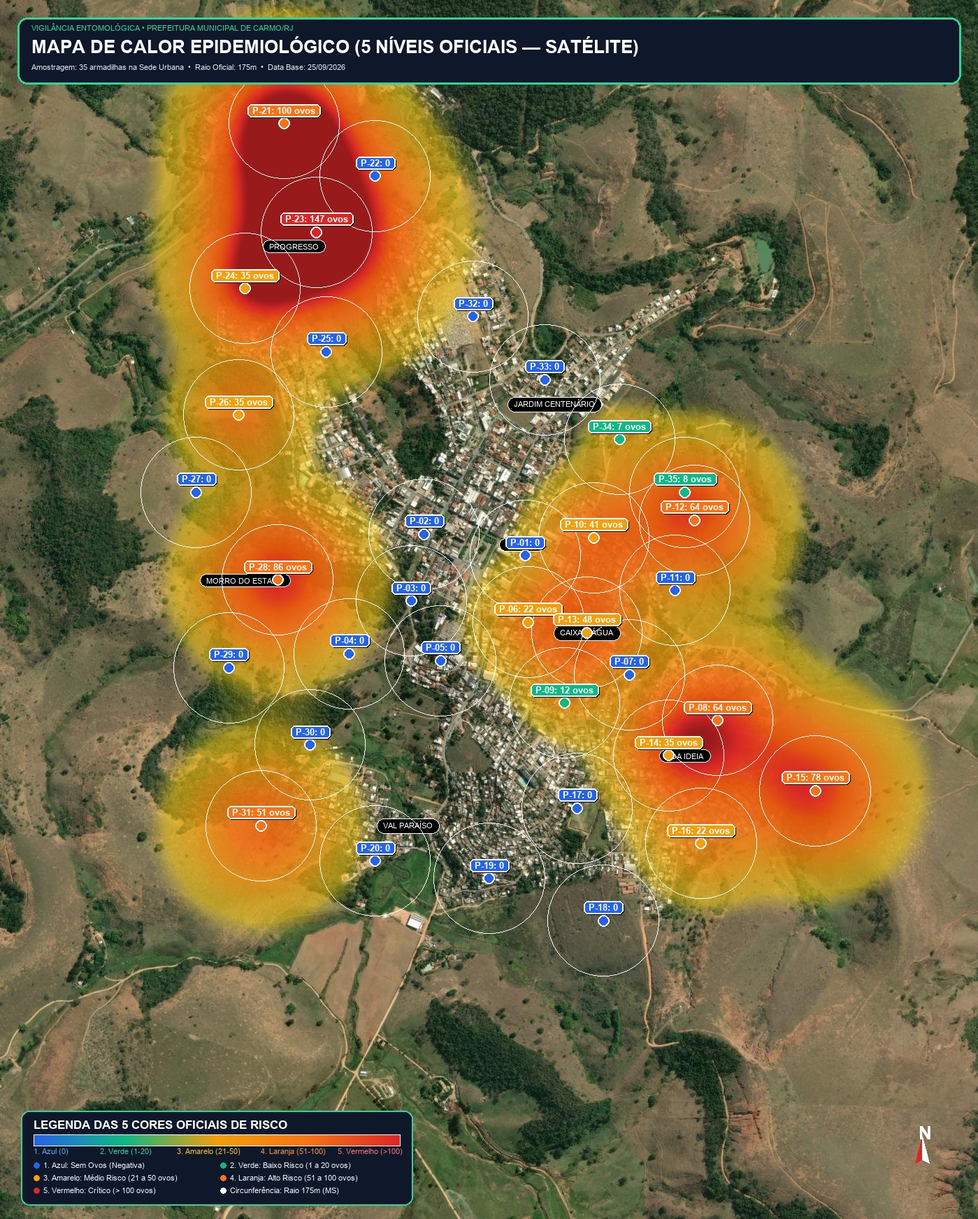
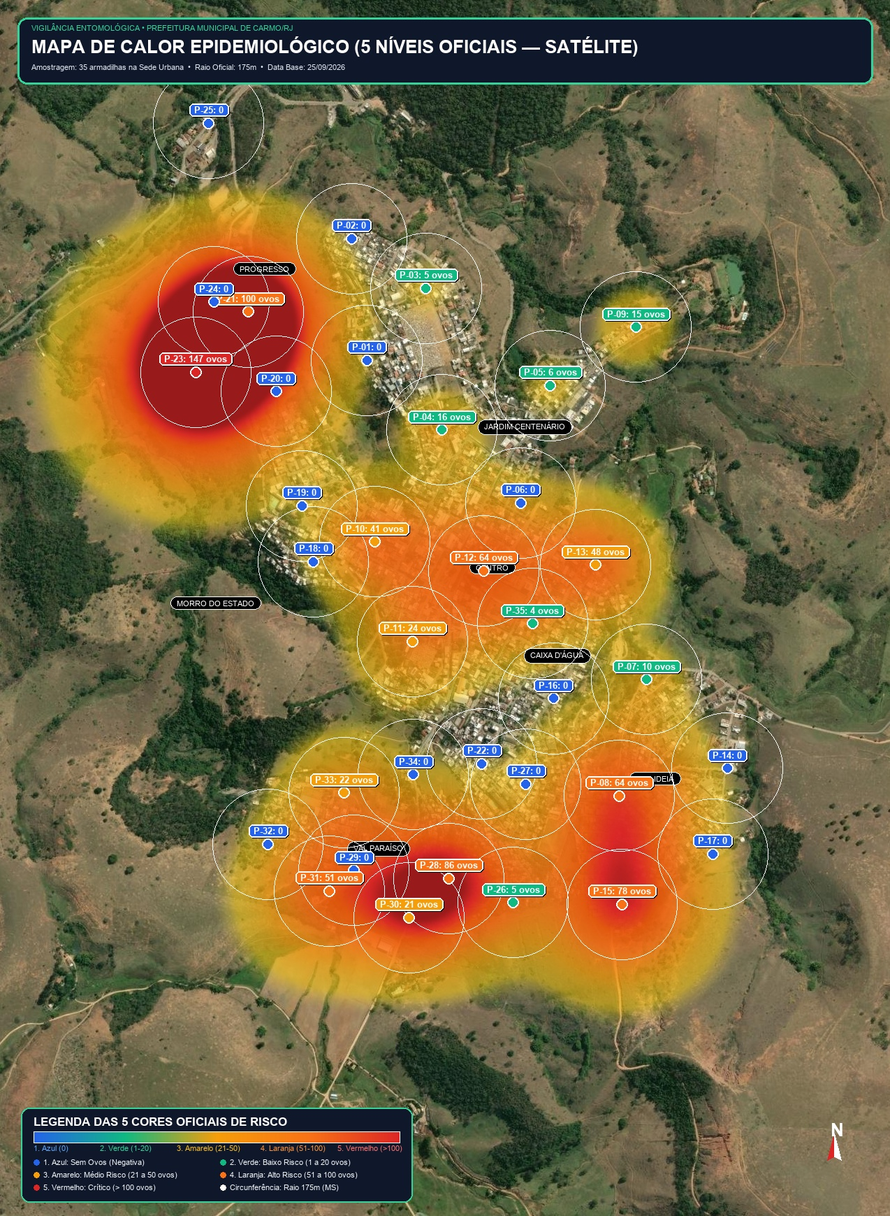
feat: botao relatorio consolidado no painel adm, mapas em nevoeiro satelite de alta definicao e tabela por bairro com area e microarea

diff --git a/src/lib/pdfRelatorioConsolidado.js b/src/lib/pdfRelatorioConsolidado.js
@@ -547,7 +547,7 @@ export async function gerarRelatorioPdfConsolidado(armadilhas = [], opcoes = {})
   });
 
   // =========================================================================
-  // PÁGINA 2: REGISTRO INDIVIDUALIZADO COMPLETO DAS 56 ARMADILHAS
+  // PÁGINA 2: REGISTRO INDIVIDUAL COMPLETO CLASSIFICADO POR BAIRRO
   // =========================================================================
   doc.addPage('a4', 'portrait');
   desenharCabecalhoOficial(doc, { dataFormatada, horaFormatada, filtroDescricao });
@@ -555,15 +555,61 @@ export async function gerarRelatorioPdfConsolidado(armadilhas = [], opcoes = {})
   doc.setFont('helvetica', 'bold');
   doc.setFontSize(10);
   doc.setTextColor(15, 23, 42);
-  doc.text('📋 5. Registro Individual Completo das 56 Ovitrampas (100% Analisadas)', 10, 36);
+  doc.text('📋 4. Registro Individual Completo das 56 Ovitrampas (Classificado por Bairro)', 10, 36);
 
   doc.setFont('helvetica', 'normal');
-  doc.setFontSize(7.2);
+  doc.setFontSize(6.8);
   doc.setTextColor(71, 85, 105);
-  doc.text('Estratificação oficial e dados operacionais de leitura segundo as 5 cores padronizadas pelo Ministério da Saúde / Fiocruz:', 10, 40);
+  doc.text('Estratificação ordenada por Bairro, exibindo Área Territorial e Microárea/Quarteirão segundo os 5 estratos do Ministério da Saúde / Fiocruz:', 10, 40);
 
-  // Ordena numericamente as armadilhas (P-01 a P-56)
-  const armadilhasOrdenadas = [...armadilhas].sort((a, b) => {
+  // Helper para identificar Área territorial e formatar Microárea com Quarteirão
+  function extrairAreaEMicroarea(arm) {
+    const b = `${arm.bairro || ''} ${arm.microarea || ''} ${arm.rua || ''}`.trim().toLowerCase();
+    let area = 'Sede Urbana';
+    let ordem = 1;
+    if (b.includes('influência') || b.includes('influencia')) {
+      area = '2º Distrito';
+      ordem = 2;
+    } else if (b.includes('prata')) {
+      area = '3º Distrito';
+      ordem = 3;
+    } else if (b.includes('porto velho')) {
+      area = '4º Distrito';
+      ordem = 4;
+    } else if (b.includes('pombo')) {
+      area = 'Ilha dos Pombos';
+      ordem = 5;
+    } else if (b.includes('barra')) {
+      area = 'Barra de S. F.';
+      ordem = 6;
+    }
+
+    const q = arm.quarteirao ? ` (${arm.quarteirao})` : '';
+    const microarea = (arm.microarea || arm.bairro || 'Centro') + q;
+    return { area, microarea, ordem };
+  }
+
+  // Ordena por Território/Área, depois por Bairro e por número
+  const armadilhasOrdenadas = [...armadilhas].map((arm) => {
+    const numLimpo = String(arm.numero || '').replace(/^OV[-_ ]*/i, '');
+    if (numLimpo === '24' || numLimpo === 'P-24') {
+      return {
+        ...arm,
+        ultimosOvos: 0,
+        moradorNome: 'Marienio oliveira',
+        bairro: 'Progresso',
+        microarea: 'Progresso',
+        quarteirao: 'Q-11'
+      };
+    }
+    return arm;
+  }).sort((a, b) => {
+    const infoA = extrairAreaEMicroarea(a);
+    const infoB = extrairAreaEMicroarea(b);
+    if (infoA.ordem !== infoB.ordem) return infoA.ordem - infoB.ordem;
+    const bairroA = String(a.bairro || '').toLowerCase();
+    const bairroB = String(b.bairro || '').toLowerCase();
+    if (bairroA !== bairroB) return bairroA.localeCompare(bairroB);
     const na = parseInt(String(a.numero || '').replace(/\D/g, ''), 10) || 0;
     const nb = parseInt(String(b.numero || '').replace(/\D/g, ''), 10) || 0;
     return na - nb;
@@ -574,10 +620,11 @@ export async function gerarRelatorioPdfConsolidado(armadilhas = [], opcoes = {})
     const infoRisco = classificarRiscoOficial(ovos);
     const numLimpo = String(arm.numero || '').replace(/^OV[-_ ]*/i, '');
     const ovLabel = `P-${numLimpo.padStart(2, '0')}`;
-    const palhetaLabel = arm.palheta || `P-${numLimpo.padStart(2, '0')}`;
+    const palhetaLabel = arm.palheta || `${numLimpo.padStart(2, '0')}A`;
     const endereco = `${arm.rua || 'S/N'}${arm.numeroImovel ? ' Nº ' + arm.numeroImovel : ''}`;
     const morador = arm.moradorNome || 'Não informado';
-    const bairro = arm.bairro || arm.microarea || 'Carmo';
+    const bairro = arm.bairro || 'Carmo';
+    const { area, microarea } = extrairAreaEMicroarea(arm);
     const hora = arm.horaInstalacao || (arm.atualizadoEm ? new Date(arm.atualizadoEm).toLocaleTimeString('pt-BR', { hour: '2-digit', minute: '2-digit' }) : '10:00');
 
     return [
@@ -585,9 +632,11 @@ export async function gerarRelatorioPdfConsolidado(armadilhas = [], opcoes = {})
       palhetaLabel,
       ovos.toString(),
       infoRisco.badgeClass,
-      morador.slice(0, 22),
-      endereco.slice(0, 26),
-      bairro.slice(0, 18),
+      bairro.slice(0, 16),
+      area.slice(0, 14),
+      microarea.slice(0, 20),
+      morador.slice(0, 20),
+      endereco.slice(0, 24),
       hora
     ];
   });
@@ -595,31 +644,33 @@ export async function gerarRelatorioPdfConsolidado(armadilhas = [], opcoes = {})
   autoTable(doc, {
     startY: 43,
     margin: { left: 10, right: 10 },
-    head: [['OV', 'Palheta', 'Ovos', 'Resultado / Nível Oficial', 'Morador / Ponto', 'Logradouro', 'Bairro / Território', 'Hora']],
+    head: [['OV', 'Palheta', 'Ovos', 'Resultado / Nível Oficial', 'Bairro', 'Área', 'Microárea', 'Morador / Ponto', 'Logradouro', 'Hora']],
     body: linhasRegistroIndividual,
     theme: 'grid',
     headStyles: {
       fillColor: [15, 23, 42],
       textColor: [255, 255, 255],
       fontStyle: 'bold',
-      fontSize: 6.8,
+      fontSize: 6.2,
       halign: 'center',
-      cellPadding: 1.5
+      cellPadding: 1.1
     },
     bodyStyles: {
-      fontSize: 6.0,
-      cellPadding: 1.1,
+      fontSize: 5.5,
+      cellPadding: 0.9,
       halign: 'left'
     },
     columnStyles: {
-      0: { fontStyle: 'bold', halign: 'center', width: 14 },
-      1: { halign: 'center', width: 14 },
-      2: { fontStyle: 'bold', halign: 'center', width: 12 },
-      3: { fontStyle: 'bold', width: 34 },
-      4: { width: 35 },
-      5: { width: 44 },
-      6: { width: 23 },
-      7: { halign: 'center', width: 14 }
+      0: { fontStyle: 'bold', halign: 'center', width: 9 },
+      1: { halign: 'center', width: 10 },
+      2: { fontStyle: 'bold', halign: 'center', width: 8 },
+      3: { fontStyle: 'bold', width: 24 },
+      4: { width: 19 },
+      5: { width: 17 },
+      6: { width: 22 },
+      7: { width: 29 },
+      8: { width: 40 },
+      9: { halign: 'center', width: 12 }
     },
     didParseCell: (data) => {
       if (data.section === 'body') {
@@ -765,11 +816,10 @@ export async function gerarRelatorioPdfConsolidado(armadilhas = [], opcoes = {})
   if (imgMapa4) {
     doc.addImage(imgMapa4, 'JPEG', 10, 44, 190, 148, undefined, 'FAST');
   } else {
-    const { canvas } = await gerarCanvasMapaCalor(armadilhas, {
+    const { canvas } = await gerarCanvasMapaNevoeiro(armadilhas, {
       width: 1600,
       height: 1250,
-      tituloTerritorio: 'MUNICÍPIO DE CARMO - RJ',
-      provider: 'satellite'
+      tituloTerritorio: 'MUNICÍPIO DE CARMO - RJ'
     });
     doc.addImage(canvas.toDataURL('image/jpeg', 0.92), 'JPEG', 10, 44, 190, 148, undefined, 'FAST');
   }

diff --git a/src/features/admin/PainelAdminScreen.jsx b/src/features/admin/PainelAdminScreen.jsx
@@ -269,17 +269,37 @@ export function PainelAdminScreen({
     document.body.removeChild(link);
   };
 
-  // Geração do Relatório Consolidado Oficial em PDF
-  const handleGerarPdf = async () => {
-    const filtroDescricao = [
-      filtroMicroarea !== 'todas' ? filtroMicroarea : null,
-      filtroStatus !== 'todos' ? filtroStatus : null,
-      filtroTexto.trim() || null
-    ]
-      .filter(Boolean)
-      .join(' • ') || 'Todos os Registros';
+  // Geração do Relatório Consolidado Oficial Completo em PDF (com Mapas de Satélite e Nevoeiro)
+  const handleGerarRelatorioConsolidado = async () => {
+    try {
+      setToastMensagem({ tipo: 'info', texto: 'Gerando Relatório Consolidado com Mapas de Satélite e Nevoeiro...' });
+      const filtroDescricao = 'Consolidação Municipal Oficial • 56 Ovitrampas • Base Satélite';
+      await gerarRelatorioPdfConsolidado(armadilhas, { filtroDescricao });
+      setToastMensagem({ tipo: 'sucesso', texto: 'Relatório Consolidado baixado com sucesso!' });
+    } catch (err) {
+      console.error('Erro ao gerar relatório consolidado:', err);
+      setToastMensagem({ tipo: 'erro', texto: 'Erro ao gerar relatório. Tente novamente.' });
+    }
+  };
 
-    await gerarRelatorioPdfConsolidado(armadilhasFiltradas, { filtroDescricao });
+  // Geração do Relatório PDF (respeitando filtros atuais de busca/bairro)
+  const handleGerarPdf = async () => {
+    try {
+      setToastMensagem({ tipo: 'info', texto: 'Gerando Relatório em PDF...' });
+      const filtroDescricao = [
+        filtroMicroarea !== 'todas' ? filtroMicroarea : null,
+        filtroStatus !== 'todos' ? filtroStatus : null,
+        filtroTexto.trim() || null
+      ]
+        .filter(Boolean)
+        .join(' • ') || 'Todos os Registros';
+
+      await gerarRelatorioPdfConsolidado(armadilhasFiltradas, { filtroDescricao });
+      setToastMensagem({ tipo: 'sucesso', texto: 'Relatório PDF baixado com sucesso!' });
+    } catch (err) {
+      console.error('Erro ao gerar relatório PDF:', err);
+      setToastMensagem({ tipo: 'erro', texto: 'Erro ao gerar PDF. Tente novamente.' });
+    }
   };
 
   return (
@@ -454,10 +474,22 @@ export function PainelAdminScreen({
               <span className="hidden sm:inline">Excel</span>
             </button>
 
+            {/* BOTÃO RELATÓRIO CONSOLIDADO OFICIAL (MAPAS DE SATÉLITE + NEVOEIRO) */}
+            <button
+              type="button"
+              onClick={handleGerarRelatorioConsolidado}
+              className="bg-gradient-to-r from-emerald-600 via-teal-600 to-cyan-700 hover:from-emerald-500 hover:to-teal-600 active:scale-95 text-white px-3.5 py-2 rounded-2xl text-xs font-black flex items-center gap-1.5 transition-all shadow-md shadow-emerald-700/20 border border-emerald-400/40"
+              title="Gerar Relatório Consolidado Oficial (6 Páginas com Mapas de Calor em Satélite e Nevoeiro)"
+            >
+              <Satellite className="w-4 h-4 text-emerald-200" />
+              <Flame className="w-3.5 h-3.5 text-amber-300 animate-pulse" />
+              <span>Relatório Consolidado</span>
+            </button>
+
             <button
               type="button"
               onClick={handleGerarPdf}
-              className="bg-slate-800 hover:bg-slate-700 active:scale-95 text-white px-3 py-2 rounded-2xl text-xs font-black flex items-center gap-1.5 transition-all shadow-xs"
+              className="bg-slate-800 hover:bg-slate-700 active:scale-95 text-white px-3 py-2 rounded-2xl text-xs font-black flex items-center gap-1.5 transition-all shadow-xs border border-slate-700"
               title="Gerar relatório técnico consolidado em PDF"
             >
               <FileText className="w-4 h-4" />

diff --git a/public/sw.js b/public/sw.js
@@ -7,7 +7,7 @@
 // origem) - tiles de mapa e fontes de CDN externos passam direto, sem cache
 // (nao sao essenciais pra abrir a tela e cadastrar uma armadilha).
 
-const CACHE_NAME = 'ovitrampas-shell-v16';
+const CACHE_NAME = 'ovitrampas-shell-v17';
 
 self.addEventListener('install', (event) => {
   self.skipWaiting();
